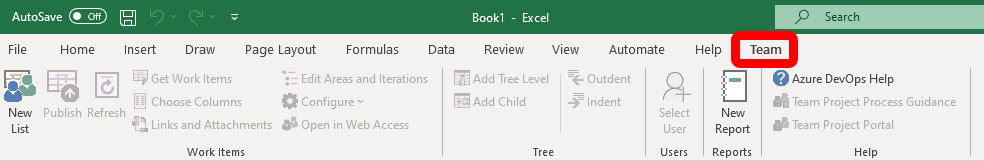
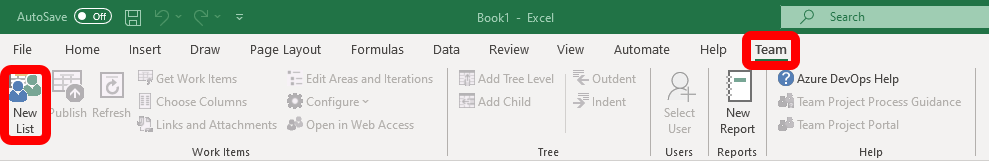
Update Rule “get-work-items-via-excel/rule”

diff --git a/rules/get-work-items-via-excel/rule.md b/rules/get-work-items-via-excel/rule.md
@@ -12,9 +12,8 @@ Sometimes it may be a tedious task manually creating work items in Azure DevOps.
 
 <!--endintro-->
 
-* First, make sure you have the Excel Azure DevOps add-in installed. 
-* Start with a blank Excel file 
-* Select the ribbon labelled "Team"
+* First, ensure the Excel Azure DevOps add-in is installed. 
+* Open a blank Excel file, then select the ribbon labelled "Team", then click "New List".
 
 ![Figure: The Azure DevOps "Team" ribbon on Excel](team-ribbon-labelled.png)
 
